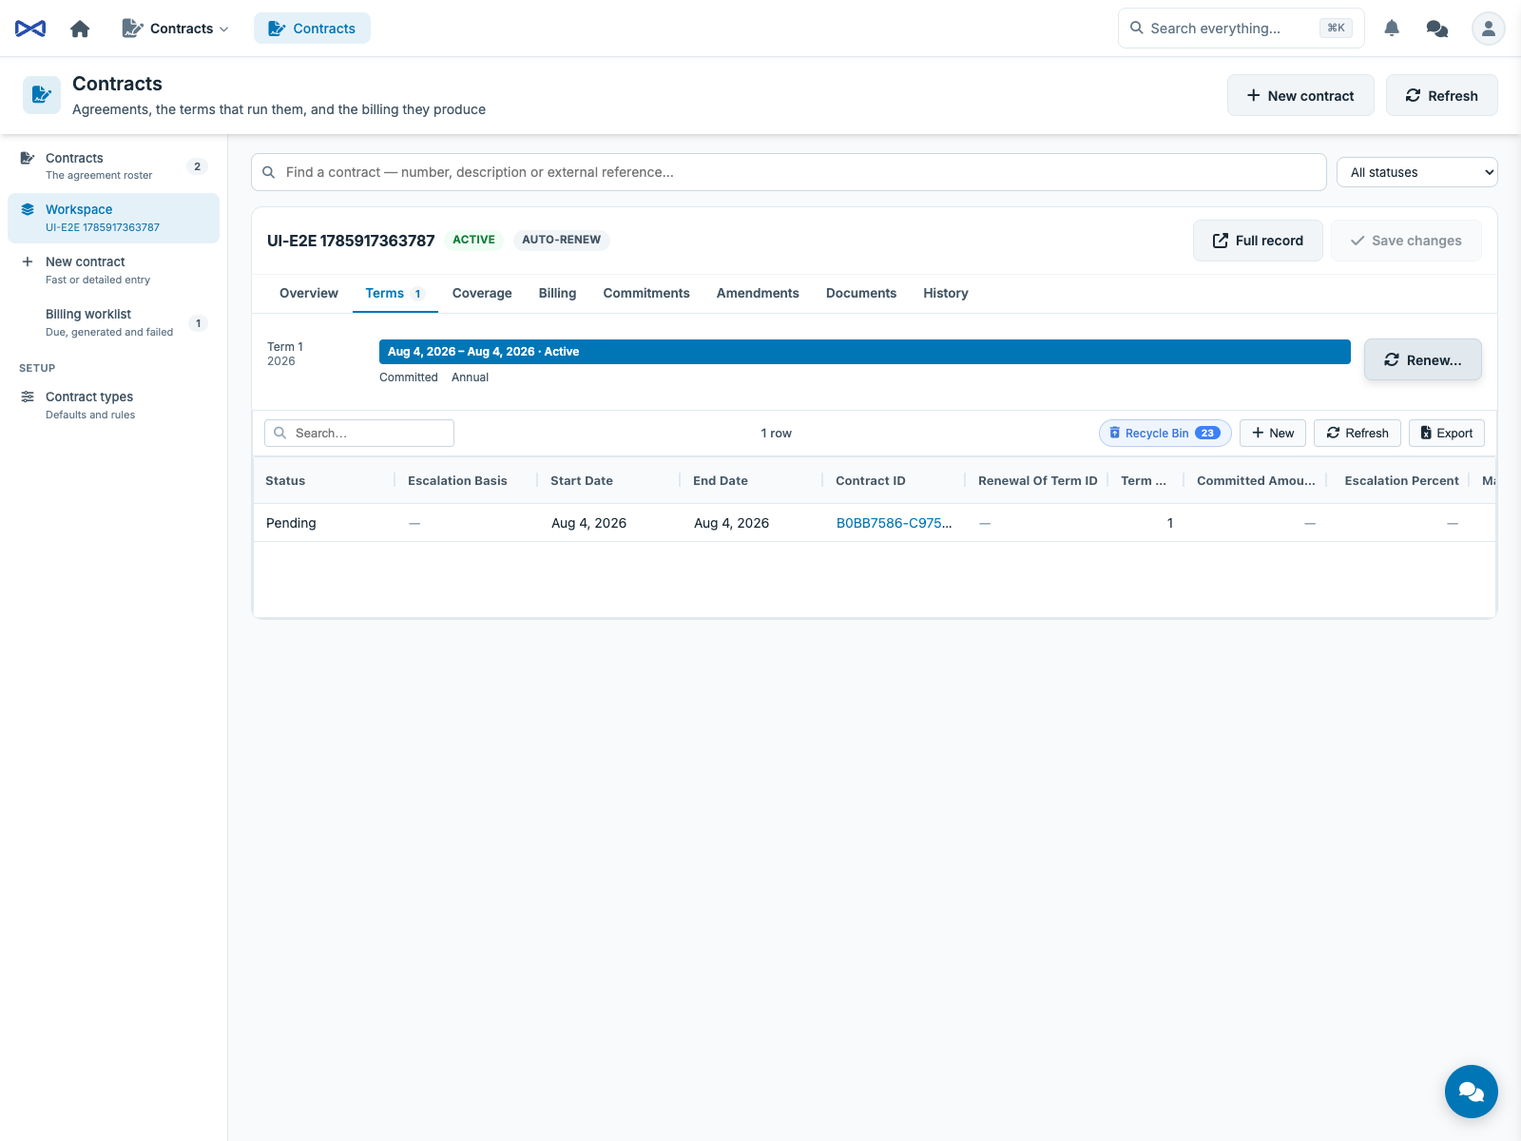
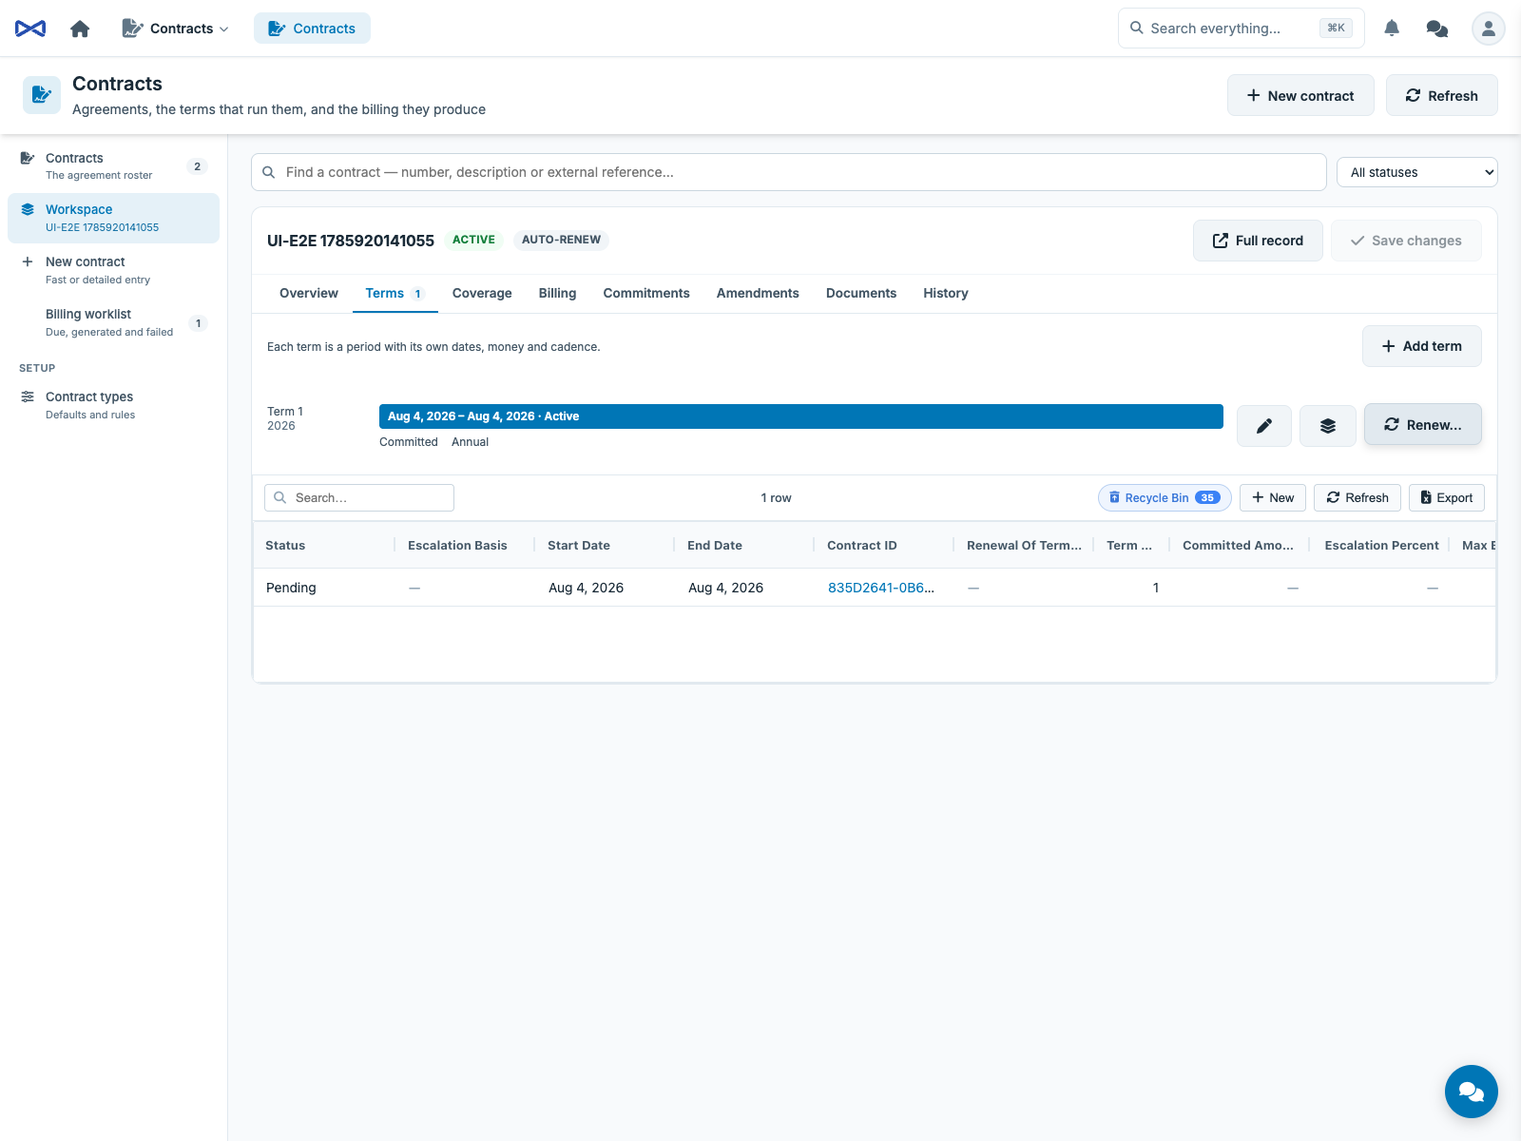
docs+fix(contracts): the coverage ledger, and the UI catches up to its own constraints
testing.md is the ledger the protocol requires and did not exist: how to run every
tier, a feature-by-tier matrix, and — the part that matters — every gap coded and
explained. No box in it is empty for the reason 'covered at another tier'; where a
cheaper tier carries something, it names why this tier's machinery adds nothing.
Seven real gaps are labelled as gaps rather than dressed up as decisions.

It also records what needs a person: the four PR questions whose answers would change
tests, and three known non-defects (MJAPI's cached manifest, the benign ClassFactory
fallback warning, orders' TVP deadlock) so the next person does not re-debug them.

THE FIX. Running the full sweep to write that ledger immediately caught a regression I
had introduced two commits earlier: CK_ContractLine_SubscriptionNeedsType correctly
refuses a Subscription line with no type, and the create page defaults every new line to
Subscription without ever collecting one — so creating a contract through the UI failed
with a raw CREATE_ENTITY_ERROR. The invariant was right; the UI had not caught up.

The coverage editor now has a subscription-type picker that appears only on subscription
lines (the sibling CHECK forbids the field anywhere else), and the page states what would
be refused BEFORE the save. Letting the write fail and surfacing the SQL error would be
technically correct and useless: the person cannot tell which of five rows is wrong, and
the contract is already created by then.
[…]

Changed region(s): [[0.1562, 0.2775, 0.9688, 0.555], [0.625, 0.4625, 0.6875, 0.4933], [0.25, 0.185, 0.2812, 0.2158]]

diff --git a/packages/Angular/src/lib/sections/contracts-section.component.ts b/packages/Angular/src/lib/sections/contracts-section.component.ts
@@ -64,6 +64,7 @@ const E_LINES = 'MJ_BizApps_Contracts: Contract Lines';
 // Products belong to ORDERS. Contracts reads the catalog it commits to; it does not own one —
 // FKs point upstream, and a second product list here would be a second thing to disagree with.
 const E_PRODUCTS = 'MJ_BizApps_Orders: Products';
+const E_SUBTYPES = 'MJ_BizApps_Orders: Subscription Types';
 const E_SCHEDULES = 'MJ_BizApps_Contracts: Contract Billing Schedules';
 const E_EVENTS = 'MJ_BizApps_Contracts: Contract Billing Events';
 const E_COMMITMENTS = 'MJ_BizApps_Contracts: Contract Commitments';
@@ -111,6 +112,13 @@ interface LogRow {
 interface LineDraft {
     ProductID: string;
     LineType: string;
+    /**
+     * Required on a Subscription line and forbidden on every other kind — both halves are CHECK
+     * constraints. It is chosen on the CONTRACT, before any subscription exists, because
+     * orders.Subscription.SubscriptionTypeID is NOT NULL and the choice (membership vs seat-based vs
+     * term licence, who may hold it, its renewal lead time) is a provision that gets negotiated.
+     */
+    SubscriptionTypeID: string;
     Quantity: number | null;
     ContractedUnitPrice: number | null;
     DiscountPercent: number | null;
@@ -791,15 +799,18 @@ interface Draft {
                                     <button mjButton (click)="AddLine()"><i class="fa-solid fa-plus"></i> Add line</button>
                                 </div>
 
-                                <div class="note gap" *ngIf="!TermIsCovered" style="margin:0 0 12px;">
+                                <div class="note gap" *ngIf="!D.Lines.length" style="margin:0 0 12px;">
                                     A term with no coverage <strong>cannot be activated</strong> — add at least one
                                     line, or the contract will be created but stuck in Draft.
+                                </div>
+                                <div class="note err" *ngIf="CoverageProblems.length" style="margin:0 0 12px;">
+                                    <div><span *ngFor="let m of CoverageProblems">{{ m }}<br /></span></div>
                                 </div>
 
                                 <table class="cov-t" *ngIf="D.Lines.length">
                                     <thead>
                                         <tr>
-                                            <th>Product</th><th>Type</th><th class="r">Qty</th>
+                                            <th>Product</th><th>Type</th><th>Subscription type</th><th class="r">Qty</th>
                                             <th class="r">Unit price</th><th class="r">Disc %</th><th>Description</th><th></th>
                                         </tr>
                                     </thead>
@@ -816,6 +827,14 @@ interface Draft {
                                                     <option *ngFor="let t of LineTypes" [value]="t">{{ t }}</option>
                                                 </select>
                                             </td>
+                                            <td>
+                                                <select class="sel" *ngIf="l.LineType === 'Subscription'"
+                                                        [(ngModel)]="l.SubscriptionTypeID" [ngModelOptions]="{standalone:true}">
+                                                    <option value="">Required…</option>
+                                                    <option *ngFor="let st of SubscriptionTypes" [value]="st.ID">{{ st.Name }}</option>
+                                                </select>
+                                                <span class="pv-s" *ngIf="l.LineType !== 'Subscription'">—</span>
+                                            </td>
                                             <td class="r"><input class="in nm" type="number" min="0" [(ngModel)]="l.Quantity" [ngModelOptions]="{standalone:true}" /></td>
                                             <td class="r"><input class="in nm" type="number" min="0" step="0.01" placeholder="catalog" [(ngModel)]="l.ContractedUnitPrice" [ngModelOptions]="{standalone:true}" /></td>
                                             <td class="r"><input class="in nm" type="number" min="0" max="100" [(ngModel)]="l.DiscountPercent" [ngModelOptions]="{standalone:true}" /></td>
@@ -825,7 +844,7 @@ interface Draft {
                                     </tbody>
                                     <tfoot>
                                         <tr>
-                                            <td colspan="6" class="r">
+                                            <td colspan="7" class="r">
                                                 Priced coverage <strong>{{ LinesSubtotal | currency: 'USD' }}</strong>
                                                 <span class="pv-s" *ngIf="CatalogPricedCount">
                                                     · {{ CatalogPricedCount }} line(s) priced from the catalog, so not counted here
@@ -926,6 +945,7 @@ export class MJCContractsSectionComponent extends BaseResourceComponent implemen
     public PayTerms: Lookup[] = [];
     public Currencies: Lookup[] = [];
     public Products: Lookup[] = [];
+    public SubscriptionTypes: Lookup[] = [];
     /** Mirrors CK_ContractLine_LineType exactly — the CHECK is the source of truth for this list. */
     public readonly LineTypes = ['Subscription', 'OneTime', 'Milestone', 'Usage', 'Minimum'];
     public readonly Frequencies = ['Monthly', 'Quarterly', 'SemiAnnual', 'Annual', 'Milestone', 'Custom'];
@@ -1332,7 +1352,7 @@ export class MJCContractsSectionComponent extends BaseResourceComponent implemen
     // ---- coverage rows on the create page ---------------------------------------------------------
 
     public AddLine(): void {
-        this.D.Lines.push({ ProductID: '', LineType: 'Subscription', Quantity: 1, ContractedUnitPrice: null, DiscountPercent: null, Description: '' });
+        this.D.Lines.push({ ProductID: '', LineType: 'Subscription', SubscriptionTypeID: '', Quantity: 1, ContractedUnitPrice: null, DiscountPercent: null, Description: '' });
         this.cdr.detectChanges();
     }
 
@@ -1347,7 +1367,25 @@ export class MJCContractsSectionComponent extends BaseResourceComponent implemen
      * rather than discovered later as a refusal from ActivateTerm.
      */
     public get TermIsCovered(): boolean {
-        return this.D.Lines.some((l) => !!l.ProductID);
+        return this.D.Lines.some((l) => !!l.ProductID) && this.CoverageProblems.length === 0;
+    }
+
+    /**
+     * What would be REFUSED on save, said before the person presses the button.
+     *
+     * These mirror CHECK constraints exactly. Letting the write fail and surfacing a raw
+     * CREATE_ENTITY_ERROR would be technically correct and useless — the person cannot tell which of
+     * five rows is wrong, and the contract is already created by then.
+     */
+    public get CoverageProblems(): string[] {
+        const out: string[] = [];
+        this.D.Lines.forEach((l, i) => {
+            if (!l.ProductID) return; // an empty row is not an error — it is just unfinished
+            if (l.LineType === 'Subscription' && !l.SubscriptionTypeID) {
+                out.push(`Line ${i + 1} is a subscription and needs a subscription type — the billing engine cannot create one without it.`);
+            }
+        });
+        return out;
     }
 
     /** What the coverage adds up to, for the lines that state a price. */
@@ -1558,6 +1596,9 @@ export class MJCContractsSectionComponent extends BaseResourceComponent implemen
             line.ContractTermID = termID;
             line.ProductID = l.ProductID;
             line.LineType = (l.LineType || 'Subscription') as typeof line.LineType;
+            // Set ONLY on a subscription line: CK_ContractLine_SubscriptionTypeOnlyOnSubscriptionLine
+            // rejects it anywhere else, and CK_ContractLine_SubscriptionNeedsType requires it here.
+            line.SubscriptionTypeID = l.LineType === 'Subscription' ? l.SubscriptionTypeID || null : null;
             line.Quantity = l.Quantity ?? 1;
             line.ContractedUnitPrice = l.ContractedUnitPrice;
             line.DiscountPct = this.pct(l.DiscountPercent);
@@ -1620,7 +1661,7 @@ export class MJCContractsSectionComponent extends BaseResourceComponent implemen
     /** One batch — six reads always needed together should not be six round trips. */
     private async load(): Promise<void> {
         const rv = new RunView();
-        const [contracts, terms, events, types, companies, orgs, people, users, payterms, currencies, products, log] = await rv.RunViews([
+        const [contracts, terms, events, types, companies, orgs, people, users, payterms, currencies, products, subtypes, log] = await rv.RunViews([
             { EntityName: E_CONTRACTS, Fields: ['ID', 'ContractNumber', 'Status', 'Description', 'EffectiveDate', 'ExecutedDate', 'PricedAt', 'AutoRenew', 'CancellationWindowDays', 'ExternalReferenceID'], OrderBy: 'ContractNumber', ResultType: 'simple' },
             { EntityName: E_TERMS, Fields: ['ID', 'ContractID', 'TermNumber', 'Status', 'StartDate', 'EndDate', 'CommittedAmount', 'EscalationPercent', 'MaxEscalationPercent', 'RenewalNoticeDays', 'BillingFrequency', 'ExecutedDate'], OrderBy: 'TermNumber', ResultType: 'simple' },
             { EntityName: E_EVENTS, Fields: ['ID', 'ContractTermID', 'ScheduledDate', 'Status', 'ComputedAmount', 'FailureReason'], OrderBy: 'ScheduledDate', ResultType: 'simple' },
@@ -1632,6 +1673,7 @@ export class MJCContractsSectionComponent extends BaseResourceComponent implemen
             { EntityName: E_PAYTERMS, Fields: ['ID', 'Name'], OrderBy: 'Name', ResultType: 'simple' },
             { EntityName: E_CURRENCIES, Fields: ['ID', 'Name'], OrderBy: 'Name', ResultType: 'simple' },
             { EntityName: E_PRODUCTS, Fields: ['ID', 'Name'], OrderBy: 'Name', ResultType: 'simple' },
+            { EntityName: E_SUBTYPES, Fields: ['ID', 'Name'], OrderBy: 'Name', ResultType: 'simple' },
             { EntityName: E_EVENTLOG, Fields: ['ID', 'ContractID', 'ContractTermID', 'EventType', 'EventDate', 'Payload', 'PerformedByUser'], OrderBy: 'EventDate DESC', ResultType: 'simple' },
         ]);
 
@@ -1647,6 +1689,7 @@ export class MJCContractsSectionComponent extends BaseResourceComponent implemen
         this.PayTerms = payterms?.Success ? (payterms.Results as Lookup[]) : [];
         this.Currencies = currencies?.Success ? (currencies.Results as Lookup[]) : [];
         this.Products = products?.Success ? (products.Results as Lookup[]) : [];
+        this.SubscriptionTypes = subtypes?.Success ? (subtypes.Results as Lookup[]) : [];
         this.Log = log?.Success ? (log.Results as LogRow[]) : [];
 
         this.Counts = {

diff --git a/testing.md b/testing.md
@@ -1,0 +1,134 @@
+# bizapps-contracts — testing ledger
+
+The running record of what is covered, what is not, and what needs a person. Coverage is measured
+against the **matrix**, not against the tests that happen to exist — an empty box is a gap even when
+every written test is green.
+
+> **Last full sweep:** 2026-08-05, branch `mjdev/contracts-night`, instance `contracts-dev`.
+> **Totals: 80 tier-2 assertions + 38 tier-5 assertions, all passing.** Every number below was
+> observed, not estimated. Where something was not run, it says so.
+
+---
+
+## How to run it
+
+Tier 2 needs the instance database. Tiers 3 and 5 additionally need MJAPI **ready** (not merely
+started) and, for tier 5, MJExplorer.
+
+```sh
+# Tier 2 — in-process, direct SQL, MJAPI-free
+npx tsx test-harnesses/server/invariants.ts     # 16
+npx tsx test-harnesses/server/lifecycle.ts      # 45
+npx tsx test-harnesses/server/constraints.ts    # 19
+
+# Tier 5 — real Chrome, driven only through the UI
+URL=$(mjdev explorer-url contracts-dev | grep -oE 'http://localhost:[0-9]+/#token=[A-Za-z0-9._-]+')
+node test-harnesses/ui-lifecycle.mjs       "$URL"   # 8
+node test-harnesses/ui-form-editing.mjs    "$URL"   # 9
+node test-harnesses/ui-history.mjs         "$URL"   # 5
+node test-harnesses/ui-create-to-active.mjs "$URL"  # 11 — CREATES a contract
+node test-harnesses/ui-full-loop.mjs       "$URL"   # 9  — WRITES to the demo contract
+```
+
+**Two of the UI harnesses write, and both ship their undo.** `ui-create-to-active` stamps every
+contract it makes with a `UI-E2E ` number prefix → `demo/cleanup-ui-e2e.sql`. `ui-full-loop` genuinely
+renews and activates the demo contract → `demo/restore-demo-after-loop.sql` puts it back to its seeded
+three terms. Run the cleanup after either. A test that leaves the demo in a different state than it
+found it is a test that breaks the demo.
+
+**After any schema or metadata change, restart the API before running tiers 3–5** (`mjdev restart
+contracts-dev api`). MJAPI caches the entity manifest and loads API keys at boot; a stale cache
+produces a red tier-3/4/5 against green tier-2, which is an environment artefact and not a defect.
+
+---
+
+## Coverage matrix
+
+`✓` exact values, real behaviour · `⚠` deliberately covered at a cheaper tier, with the reason ·
+`✗` **a real gap** · `—` no machinery at this tier routes it.
+
+| Feature / invariant | T1 unit | T2 server | T3 API | T5 browser | Notes |
+|---|---|---|---|---|---|
+| `ContractNumber` allocation from the sequence | — | ✓ | ⚠ | ⚠ | Allocation is a read-modify-write in `Save()`; T2 asserts the number shape AND that the sequence advances by exactly 1. Nothing above adds machinery. |
+| `PricedAt` defaults rather than staying null | — | ✓ | ⚠ | ⚠ | Same. |
+| An explicit contract number is not overwritten | — | ✓ | ⚠ | ⚠ | Same. |
+| Contract legal status **moves** | — | ✓ | ⚠ | ⚠ | The CHECK knows only the legal SET; T2 proves `Terminated → Active` is refused and did not persist. |
+| Term numbering derived as max+1 | — | ✓ | ⚠ | ⚠ | |
+| Escalation cap enforced | — | ✓ | ⚠ | ✓ | T2 proves the refusal; T5 shows the "capped" badge and the ceiling actually applied. |
+| A null cap means uncapped, not zero | — | ✓ | — | — | |
+| **ActivateTerm** — status + schedule + events, atomically | — | ✓ | ✓ | ✓ | T2 asserts exactly 4 events on the term anchor; T5 drives the button and re-reads the DB. |
+| Activation refuses an uncovered term | — | ✓ | — | ✓ | T5 asserts the create page WARNS before the save rather than failing at it. |
+| Activation refuses a second activation | — | ✓ | — | — | |
+| Activation promotes the contract Draft → Active | — | ✓ | — | ✓ | Found by reading the DB after a UI run, not by an assertion. |
+| Schedule arithmetic at month boundaries | — | ✓ | — | — | 7 assertions: Jan-31 monthly gives 12 not 11, Feb clamps to 28, leap Feb to 29, May returns to 31, short term bills once, Milestone invents nothing. |
+| **RenewTerm** — successor, escalated coverage, prior term Completed | — | ✓ | ✓ | ✓ | Exact money: 1000.00 → 1030.00; 250.50 → 258.02 (not 258.015). |
+| Renewal preview writes nothing | — | ✓ | ✓ | ✓ | Asserted at T2 by re-querying, at T5 by cancelling and checking no term appeared. |
+| Over-cap escalation is clamped, not rejected | — | ✓ | — | ✓ | |
+| Renewal refuses a second renewal of one term | — | ✓ | — | — | |
+| Renewal carries committed amount + line prices forward | — | ✓ | — | ✓ | T5 verifies in the DB: 471,744 × 1.04 = 490,613.76. |
+| **TerminateContract** — cancels FUTURE events, retains past | — | ✓ | — | ⚠ | The load-bearing one. T2 re-reads the schedule and asserts the exact split. T5 asserts the control + preview; the write path is proven at T2. |
+| Termination requires a reason | — | ✓ | — | ✓ | |
+| Termination preview writes nothing | — | ✓ | — | — | |
+| Termination skips Completed terms | — | ✓ | — | — | Found by a test: `Completed` is terminal, so including them rolled back the whole transaction. |
+| X.5 Subscription line needs its type | — | ✓ | — | ✓ | T5 asserts the page demands it before saving. |
+| X.6 Superseded needs a successor | — | ✓ | — | — | |
+| X.8 renewal chain cannot cross contracts | — | ✓ | — | — | Entity layer; a CHECK cannot see the other row. |
+| X.9 one subscription, one line | — | ✓ | — | — | Bypass proof: the filtered unique index exists. |
+| X.12 Generated needs a timestamp | — | ✓ | — | — | Bypass proof. |
+| X.14 Approved amendment needs its task | — | ✓ | — | — | Bypass proof. |
+| X.15 event vocabulary is closed | — | ✓ | — | ✓ | T5 asserts the timeline renders sentences and NOT raw enum strings. |
+| X.15 event log is append-only | — | ✓ | — | ✓ | T2 proves edit and delete are both refused AND that the row is unchanged in the DB afterwards. |
+| Creating a contract with coverage | — | ⚠ | — | ✓ | Driven end-to-end through the UI; T2 covers the entity rules underneath. |
+| Term / line editing via MJ's form shells | — | — | — | ✓ | jsdom cannot route the overlay mount; asserted by diffing `document.body.children`. |
+| Audit timeline rendering | — | — | — | ✓ | |
+| Roster search + filter | — | — | — | ✗ | **Gap `5a`.** |
+| Billing worklist page | — | — | — | ✗ | **Gap `5b`.** |
+| Coverage / Commitments / Amendments tabs | — | — | — | ✗ | **Gap `5c`** — they render MJ's grid, which is not ours to test, but nothing asserts they bind the right params. |
+| Documents tab (file links) | — | — | — | ✗ | **Gap `5d`** — feature not built. |
+| Signature status panel | — | — | — | ✗ | **Gap `5e`** — feature not built; needs a provider account. |
+| Billing event generation | — | ✗ | ✗ | ✗ | **Blocked, not a gap** — needs the orders seams (D-2). Nothing to test yet. |
+
+---
+
+## Open gaps, coded
+
+| Code | Gap | Why it is still open |
+|---|---|---|
+| `5a` | Roster search and status filter unasserted | Cheap; simply not yet written. Should be. |
+| `5b` | Billing worklist page unasserted | Same. |
+| `5c` | The four grid-only tabs assert nothing about their bound params | A wrong `ExtraFilter` would show the wrong rows and no test would notice. |
+| `5d` | Documents tab | Feature not built — the panel lists links but the upload path is not wired. |
+| `5e` | Signature status panel | Feature not built; sending needs a provider account. |
+| `1a` | No tier-1 unit tests | The pure helpers (date stepping, percent handling) are module-private. Rather than export them purely for tests — a test seam the protocol forbids — they are covered through the operations at tier 2, where the month-boundary cases now live. Revisit if they grow. |
+| `4a` | No tier-4 (component + API, headless) | Not initialized for this app. It would absorb much of what tier 5 currently carries. Opt-in, and not initialized without being asked. |
+
+**No box above is empty for the reason "it is covered at another tier."** Where a `⚠` appears, it
+names the specific reason that tier's machinery adds nothing (allocation happens in `Save()`, so the
+API routes it without changing it) rather than deferring to a cheaper tier out of convenience.
+
+---
+
+## Needs a person
+
+Ten open questions were posted to PR #2 as
+["AI questions from the overnight work"](https://github.com/MemberJunction/bizapps-contracts/pull/2#issuecomment-5189321195).
+The ones that would change tests if answered differently:
+
+- **Remote operations vs Actions** for status transitions. Changes registration, not behaviour — the
+  tier-2 assertions would transplant unchanged.
+- **`ContractedUnitPrice` null = "resolve from the catalog"** vs "not yet priced, block activation".
+  The second reading would need a new refusal test and a UI gate.
+- **Escalation clamped vs rejected** over the cap. The current tests assert clamping.
+- **X.10** — `ComputedAmount >= 0` forbids a credit. Deliberately unchanged and untested pending the
+  scope decision; testing it now would pin behaviour nobody has agreed to.
+
+---
+
+## Known non-defects
+
+- **Tier 3/5 red while tier 2 is green, right after a schema change** — MJAPI's cached manifest.
+  `mjdev restart contracts-dev api`. Not a code bug.
+- **`ClassFactory: no registration found for base class 'BaseEntity'`** during `mj sync push` — a
+  benign fallback warning, not an error.
+- **Orders' TVP deadlock during `reapply-migrations`** — a known filed issue with a documented
+  `mj migrate` workaround; unrelated to this app.

diff --git a/docs/ERD.md b/docs/ERD.md
@@ -10,7 +10,16 @@
 > hand-edit the diagrams.
 >
 > **Schema:** `__mj_BizAppsContracts` · **Entity prefix:** `MJ_BizApps_Contracts: ` · **Keys:** UUID throughout
-> **Generated:** 2026-08-04 (re-generated after `Contract.PricedAt`) · 10 tables · 13 internal relationships · 13 cross-app foreign keys
+> **Generated:** 2026-08-05 (re-checked against the live schema after the invariant pass) · 11 tables ·
+> 13 internal relationships · 13 cross-app foreign keys
+>
+> **Constraints added 2026-08-05** and not yet reflected in the section text below:
+> `CK_Contract_SupersededHasSuccessor` · `CK_ContractLine_SubscriptionNeedsType` ·
+> `CK_ContractBillingEvent_GeneratedHasTimestamp` · `CK_ContractAmendment_ApprovedHasTask` ·
+> `CK_ContractEvent_EventType` (closed vocabulary) · `UQ_ContractLine_Subscription` (filtered) ·
+> `'Cancelled'` added to `CK_ContractBillingEvent_Status`. Two rules that a CHECK cannot express live
+> in the entity layer: a renewal chain may not cross contracts, and `ContractEvent` is append-only.
+> See `testing.md` for what proves each one.
 
 ---
 
